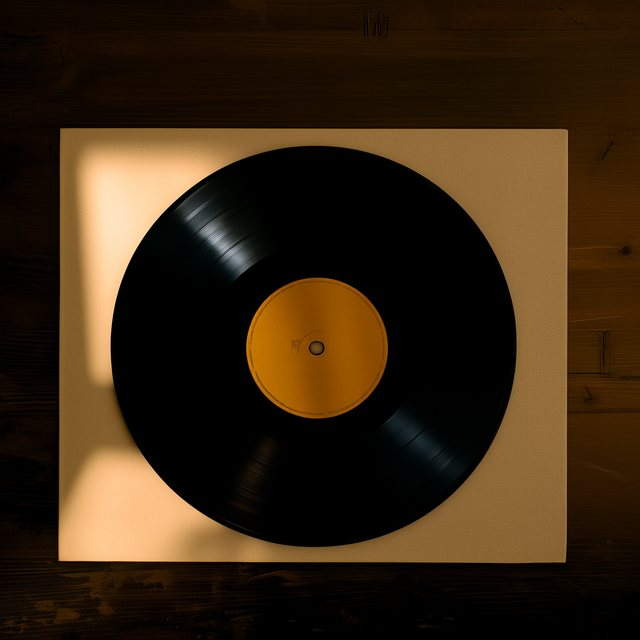
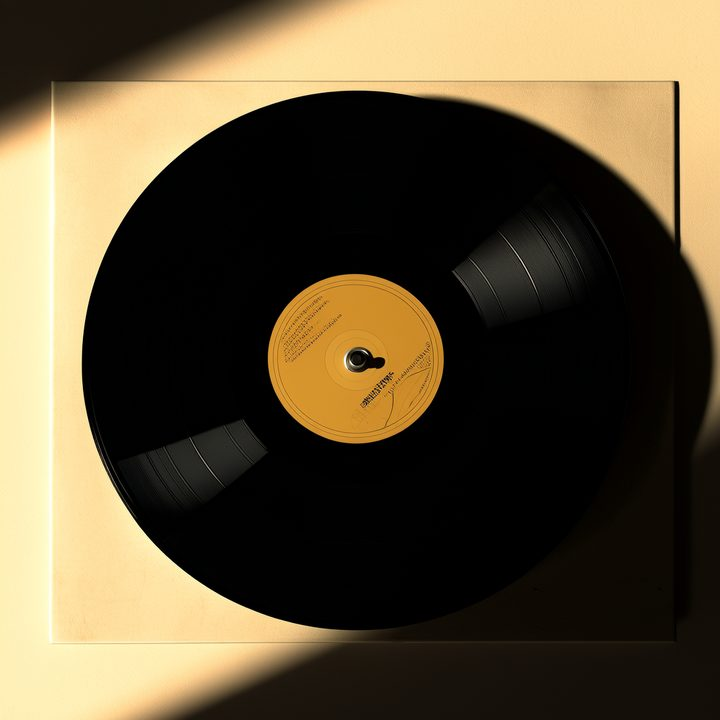
fix: 返回门户整页跳转；导航白色内层背景清除；侧边栏字号对比度提升；唱片机接入千问黑胶素材；猫头鹰换千问插画徽章

diff --git a/docs/.vitepress/theme/style.css b/docs/.vitepress/theme/style.css
@@ -162,8 +162,9 @@ a:hover { color: var(--accent); }
 
 /* ---------- Top nav: floating glass pill ---------- */
 .VPNav { border-bottom: none !important; background: transparent !important; }
-.VPNavBar { max-width: 1200px; margin: 12px auto 0; height: 60px; border-radius: 18px; background: linear-gradient(135deg, var(--glass-hi), var(--glass-lo)) !important; border: 1px solid var(--glass-brd) !important; box-shadow: 0 12px 28px -16px var(--shadow), inset 0 1px 0 var(--glass-spec); backdrop-filter: blur(10px) saturate(1.1); -webkit-backdrop-filter: blur(10px) saturate(1.1); }
+.VPNavBar { max-width: 1200px; margin: 12px auto 0; height: 60px; border-radius: 18px; background: linear-gradient(135deg, color-mix(in srgb, var(--bg) 88%, var(--paper-fresh) 12%), color-mix(in srgb, var(--bg) 72%, var(--paper-fresh) 10%)) !important; border: 1px solid var(--glass-brd) !important; box-shadow: 0 14px 30px -18px var(--shadow), inset 0 1px 0 var(--glass-spec); backdrop-filter: blur(10px) saturate(1.1); -webkit-backdrop-filter: blur(10px) saturate(1.1); }
 .VPNavBar .container { display: flex; align-items: center; justify-content: space-between; max-width: none; padding: 0 1.2rem; gap: .6rem; }
+.VPNavBar .content-body, .VPNavBar .divider-line { background: transparent !important; }
 .VPNavBarTitle { padding: 0 !important; }
 .VPNavBarTitle .title { font-family: 'Fraunces', Georgia, serif; font-weight: 600; font-size: .95rem; letter-spacing: .14em; color: var(--ink); transition: color .6s; }
 .VPNavBarTitle .title:hover { color: var(--accent); }
@@ -185,12 +186,12 @@ a:hover { color: var(--accent); }
 /* ---------- Sidebar ---------- */
 .VPSidebar { background: transparent; border-right: 1px solid var(--line-soft); width: var(--vp-sidebar-width) !important; padding-top: 1.5rem; }
 .VPSidebar .group { padding: 0 1rem; margin-bottom: 1.4rem; }
-.VPSidebar .group .text { font-family: 'Noto Sans SC',sans-serif; font-size: .62rem; font-weight: 600; letter-spacing: .18em; color: var(--ink3); margin-bottom: .7rem; padding-left: .4rem; }
-.VPSidebar .item .link { font-family: 'Noto Sans SC',sans-serif; font-size: .8rem; line-height: 1.7; color: var(--ink2); letter-spacing: .03em; display: block; padding: 5px .8rem; border-radius: 10px; transition: all .2s; }
+.VPSidebar .group .text { font-family: 'Noto Sans SC',sans-serif; font-size: .72rem; font-weight: 600; letter-spacing: .16em; color: var(--ink2); margin-bottom: .7rem; padding-left: .4rem; }
+.VPSidebar .item .link { font-family: 'Noto Sans SC',sans-serif; font-size: .95rem; line-height: 1.75; color: var(--ink); letter-spacing: .02em; display: block; padding: 6px .8rem; border-radius: 10px; transition: all .2s; }
 .VPSidebar .item .link:hover { color: var(--ink); background: var(--glass-hi); }
 .VPSidebar .item .link.active { color: var(--accent); background: var(--glass-hi); font-weight: 600; }
 .VPSidebar .group .group { padding: 0 0 0 .8rem; margin-bottom: .5rem; }
-.VPSidebar .group .group .text { font-size: .6rem; letter-spacing: .12em; color: var(--ink3); border-left: 2px solid var(--tea-light); padding-left: .6rem; }
+.VPSidebar .group .group .text { font-size: .72rem; letter-spacing: .1em; color: var(--ink2); border-left: 2px solid var(--tea-light); padding-left: .6rem; }
 
 /* ---------- Doc area: hide default outline, dot-nav takes over ---------- */
 .VPDocAside { display: none !important; }
@@ -263,13 +264,12 @@ a:hover { color: var(--accent); }
 .tt-platter-mat { position: absolute; inset: 4.1667%; border-radius: 50%; background: #2e2b26; }
 .tt-platter.spinning { animation: spin var(--spin-dur, 4.5s) linear infinite; }
 @keyframes spin { to { transform: translateX(-50%) rotate(360deg); } }
-.tt-record { position: absolute; bottom: 11.4706%; left: 50%; transform: translateX(-50%); width: 50%; height: 55.8824%; border-radius: 50%; background: radial-gradient(circle, transparent 0 28%, rgba(255, 255, 255, .04) 28.5% 29%, transparent 29.5%), radial-gradient(circle, var(--mod-color, #d9a441) 0 30%, transparent 30.5%), #1a1817; box-shadow: 0 4px 20px -4px rgba(0, 0, 0, .4); z-index: 2; }
-.tt-record-grooves { position: absolute; inset: 0; border-radius: 50%; opacity: .7; background: repeating-radial-gradient(circle at 50%, #1a1817 0 .8px, #201e1c .8px 2.4px); mask-image: radial-gradient(circle, transparent 30%, black 31%); -webkit-mask-image: radial-gradient(circle, transparent 30%, black 31%); }
+.tt-record { position: absolute; bottom: 11.4706%; left: 50%; transform: translateX(-50%); width: 50%; height: 55.8824%; border-radius: 50%; background: url("./art/vinyl.jpg") center / cover no-repeat; box-shadow: 0 10px 26px -8px rgba(0, 0, 0, .5), inset 0 0 0 1px rgba(0, 0, 0, .35); z-index: 2; will-change: transform; }
+.tt-record::after { content: ""; position: absolute; inset: 0; border-radius: 50%; pointer-events: none; background: radial-gradient(circle at 30% 22%, rgba(255, 255, 255, .20), transparent 40%), radial-gradient(circle at 72% 82%, rgba(0, 0, 0, .30), transparent 48%); }
+
 .tt-record.spinning { animation: spinRecord var(--spin-dur, 4.5s) linear infinite; }
 @keyframes spinRecord { to { transform: translateX(-50%) rotate(360deg); } }
-.tt-label { position: absolute; top: 50%; left: 50%; transform: translate(-50%, -50%); width: 38%; height: 38%; border-radius: 50%; display: flex; align-items: center; justify-content: center; font-family: 'JetBrains Mono',monospace; font-weight: 500; font-size: clamp(.5rem, 3.3cqw, .78rem); color: rgba(255, 255, 255, .92); z-index: 3; transition: background .3s; }
-.tt-record.spinning .tt-label { animation: counterSpin var(--spin-dur, 4.5s) linear infinite; }
-@keyframes counterSpin { to { transform: translate(-50%, -50%) rotate(-360deg); } }
+
 .tt-tonearm-base { position: absolute; top: 31.7647%; right: 5.2632%; width: 7.3684%; height: 8.2353%; border-radius: 50%; background: radial-gradient(circle at 40% 35%, #d4ccc0, #9a9286); box-shadow: 0 2px 8px rgba(0, 0, 0, .25); z-index: 5; }
 .tt-tonearm { position: absolute; top: 34.7059%; right: 7.8947%; width: 42.1053%; height: 1.7647%; transform-origin: 98.75% 33.3333%; transform: rotate(28deg); transition: transform .55s cubic-bezier(.34, 1.3, .64, 1); z-index: 4; will-change: transform; }
 .tt-tonearm.is-dropped { transform: rotate(8deg); }

diff --git a/docs/.vitepress/theme/components/Owl.vue b/docs/.vitepress/theme/components/Owl.vue
@@ -1,142 +1,58 @@
 <script setup lang="ts">
-import { onMounted, onBeforeUnmount, ref } from "vue"
 import { withBase } from "vitepress"
-
-const owlEl = ref<HTMLElement | null>(null)
-let raf = 0
-const MAX = 1.3 // 瞳孔最大位移（viewBox 单位），保证不越出巩膜
-const RANGE = 160 // 鼠标距 logo 多远时位移打满
-
-function onMove(e: MouseEvent) {
-  if (raf) return
-  raf = requestAnimationFrame(() => {
-    const el = owlEl.value
-    if (el) {
-      const r = el.getBoundingClientRect()
-      const dx = e.clientX - (r.left + r.width / 2)
-      const dy = e.clientY - (r.top + r.height / 2)
-      const d = Math.hypot(dx, dy) || 1
-      const k = Math.min(d / RANGE, 1) * MAX
-      el.style.setProperty("--px", ((dx / d) * k).toFixed(2) + "px")
-      el.style.setProperty("--py", ((dy / d) * k).toFixed(2) + "px")
-    }
-    raf = 0
-  })
-}
-
-function onLeave() {
-  const el = owlEl.value
-  if (el) {
-    el.style.setProperty("--px", "0px")
-    el.style.setProperty("--py", "0px")
-  }
-}
-
-onMounted(() => {
-  window.addEventListener("mousemove", onMove, { passive: true })
-  document.addEventListener("mouseleave", onLeave)
-})
-onBeforeUnmount(() => {
-  window.removeEventListener("mousemove", onMove)
-  document.removeEventListener("mouseleave", onLeave)
-})
 </script>
 
 <template>
-  <a ref="owlEl" class="owl" :href="withBase('/')" aria-label="拾光声学档案 · 返回首页">
-    <svg class="owl-svg" viewBox="0 0 44 30" aria-hidden="true" focusable="false">
-      <path class="owl-head"
-            d="M8.5 2 L15 8 L22 6 L29 8 L35.5 2 L38.5 12.5 L31.5 22.5 L22 26.5 L12.5 22.5 L5.5 12.5 Z" />
-      <path class="owl-fold" d="M9.7 4.2 L12 7.6" />
-      <path class="owl-fold" d="M34.3 4.2 L32 7.6" />
-      <g class="eye" transform="translate(15 13.5)">
-        <circle class="eye-gold" r="4.8" />
-        <circle class="eye-bg" r="3.2" />
-        <g class="pupil">
-          <circle class="pupil-core" r="1.65" />
-          <circle class="pupil-glint" cx="0.72" cy="-0.72" r="0.6" />
-        </g>
-      </g>
-      <g class="eye" transform="translate(29 13.5)">
-        <circle class="eye-gold" r="4.8" />
-        <circle class="eye-bg" r="3.2" />
-        <g class="pupil">
-          <circle class="pupil-core" r="1.65" />
-          <circle class="pupil-glint" cx="0.72" cy="-0.72" r="0.6" />
-        </g>
-      </g>
-      <path class="owl-beak" d="M22 17.6 L24 20 L22 22.8 L20 20 Z" />
-    </svg>
+  <a class="owl" :href="withBase('/')" aria-label="拾光声学档案 · 返回首页">
+    <img class="owl-img" src="../art/owl.jpg" alt="" aria-hidden="true" decoding="async" />
+    <span class="owl-halo" aria-hidden="true"></span>
   </a>
 </template>
 
 <style scoped>
 .owl {
-  --ink: #4a4f5a;
-  --head-fill: rgb(74 79 90 / 0.07);
   --gold: #d4a020;
-  --eye-bg: #181c25;
-  --pupil: #04060b;
-  --glint: #ffffff;
+  position: relative;
   display: inline-flex;
   align-items: center;
   justify-content: center;
-  width: 44px;
-  height: 30px;
+  width: 42px;
+  height: 42px;
   flex: 0 0 auto;
+  border-radius: 50%;
   text-decoration: none;
-  border-radius: 8px;
   -webkit-tap-highlight-color: transparent;
 }
 .owl:focus-visible { outline: 2px solid var(--gold); outline-offset: 3px; }
-.owl-svg {
-  width: 44px;
-  height: 30px;
+.owl-img {
+  width: 100%;
+  height: 100%;
+  border-radius: 50%;
+  object-fit: cover;
   display: block;
-  overflow: visible;
-  transition: transform 0.25s cubic-bezier(0.34, 1.56, 0.64, 1);
+  box-shadow: 0 4px 10px -4px rgba(0, 0, 0, .35), inset 0 0 0 1px rgba(255, 255, 255, .35);
+  transition: transform .25s cubic-bezier(.34, 1.56, .64, 1);
 }
-.owl:hover .owl-svg { transform: translateY(-1px) rotate(-3deg); }
-.owl:active .owl-svg { transform: scale(0.96); }
-.owl-head {
-  fill: var(--head-fill);
-  stroke: var(--ink);
-  stroke-width: 1.4;
-  stroke-linejoin: round;
+.owl-halo {
+  position: absolute;
+  inset: -4px;
+  border-radius: 50%;
+  border: 1px solid color-mix(in srgb, var(--gold) 55%, transparent);
+  pointer-events: none;
+  opacity: .7;
 }
-.owl-fold {
-  fill: none;
-  stroke: var(--ink);
-  stroke-width: 1;
-  stroke-linecap: round;
-  opacity: 0.55;
+.owl:hover .owl-img { transform: translateY(-2px) rotate(-4deg) scale(1.04); }
+.owl:active .owl-img { transform: scale(.95); }
+[data-palette="night"] .owl-img {
+  box-shadow: 0 4px 12px -4px rgba(0, 0, 0, .6), inset 0 0 0 1px rgba(255, 255, 255, .25), 0 0 12px rgba(212, 160, 32, .35);
 }
-.eye-gold { fill: var(--gold); }
-.eye-bg { fill: var(--eye-bg); }
-.pupil-core { fill: var(--pupil); }
-.pupil-glint { fill: var(--glint); opacity: 0.9; }
-.pupil {
-  transform: translate(var(--px, 0px), var(--py, 0px));
-  transition: transform 0.12s ease-out;
-  will-change: transform;
-}
-.owl-beak { fill: var(--gold); }
-[data-palette="night"] .owl {
-  --ink: #e8e3d6;
-  --head-fill: rgb(232 227 214 / 0.08);
-  --eye-bg: #0d1119;
-}
-[data-palette="night"] .owl .eye-gold,
-[data-palette="night"] .owl .owl-beak {
-  animation: owl-glow 3.2s ease-in-out infinite;
-}
+[data-palette="night"] .owl-halo { animation: owl-glow 3.2s ease-in-out infinite; }
 @keyframes owl-glow {
-  0%, 100% { filter: drop-shadow(0 0 2px rgb(212 160 32 / 0.70)) drop-shadow(0 0 6px rgb(212 160 32 / 0.30)); }
-  50% { filter: drop-shadow(0 0 3.5px rgb(212 160 32 / 0.95)) drop-shadow(0 0 9px rgb(212 160 32 / 0.45)); }
+  0%, 100% { opacity: .5; box-shadow: 0 0 4px rgba(212, 160, 32, .5), inset 0 0 0 1px rgba(212, 160, 32, .4); }
+  50% { opacity: 1; box-shadow: 0 0 10px rgba(212, 160, 32, .9), inset 0 0 0 1px rgba(212, 160, 32, .6); }
 }
 @media (prefers-reduced-motion: reduce) {
-  .owl .pupil, .owl-svg { transition: none; }
-  [data-palette="night"] .owl .eye-gold,
-  [data-palette="night"] .owl .owl-beak { animation: none; }
+  .owl-img { transition: none; }
+  [data-palette="night"] .owl-halo { animation: none; }
 }
 </style>

diff --git a/docs/.vitepress/theme/Layout.vue b/docs/.vitepress/theme/Layout.vue
@@ -21,6 +21,11 @@ function syncBodyClass() {
   root.classList.toggle("is-section", route.path !== "/" && route.path.endsWith("/"))
 }
 
+function goPortal() {
+  // VitePress client router would hijack <a href="/">; do a full page load instead
+  window.location.assign("/")
+}
+
 watch(() => route.path, () => syncBodyClass())
 onMounted(() => syncBodyClass())
 </script>
@@ -29,7 +34,7 @@ onMounted(() => syncBodyClass())
   <DefaultTheme.Layout>
     <template #nav-bar-content-before><Owl /></template>
     <template #nav-bar-content-after>
-      <a v-if="isPortalDeploy" class="portal-back" href="/" aria-label="返回登录门户">← 返回门户</a>
+      <a v-if="isPortalDeploy" class="portal-back" href="/" aria-label="返回登录门户" @click.prevent="goPortal">← 返回门户</a>
       <PaletteSwitch />
     </template>
     <template #layout-bottom>

diff --git a/docs/.vitepress/theme/components/RecordPlayer.vue b/docs/.vitepress/theme/components/RecordPlayer.vue
@@ -83,10 +83,7 @@ onBeforeUnmount(() => {
         <div class="turntable">
           <div class="tt-plinth"><div class="tt-plinth-top"></div></div>
           <div class="tt-platter" :class="{ spinning }" :style="spinStyle"><div class="tt-platter-rim"></div><div class="tt-platter-mat"></div></div>
-          <div class="tt-record" :class="{ spinning }" :style="[spinStyle, { '--mod-color': mod.color }]">
-            <div class="tt-record-grooves"></div>
-            <div class="tt-label" :style="{ background: mod.color }">{{ mod.num }}</div>
-          </div>
+          <div class="tt-record" :class="{ spinning }" :style="spinStyle"></div>
           <div class="tt-tonearm-base"></div>
           <div class="tt-tonearm" :class="{ 'is-dropped': dropped }">
             <div class="tt-arm-tube"></div>
